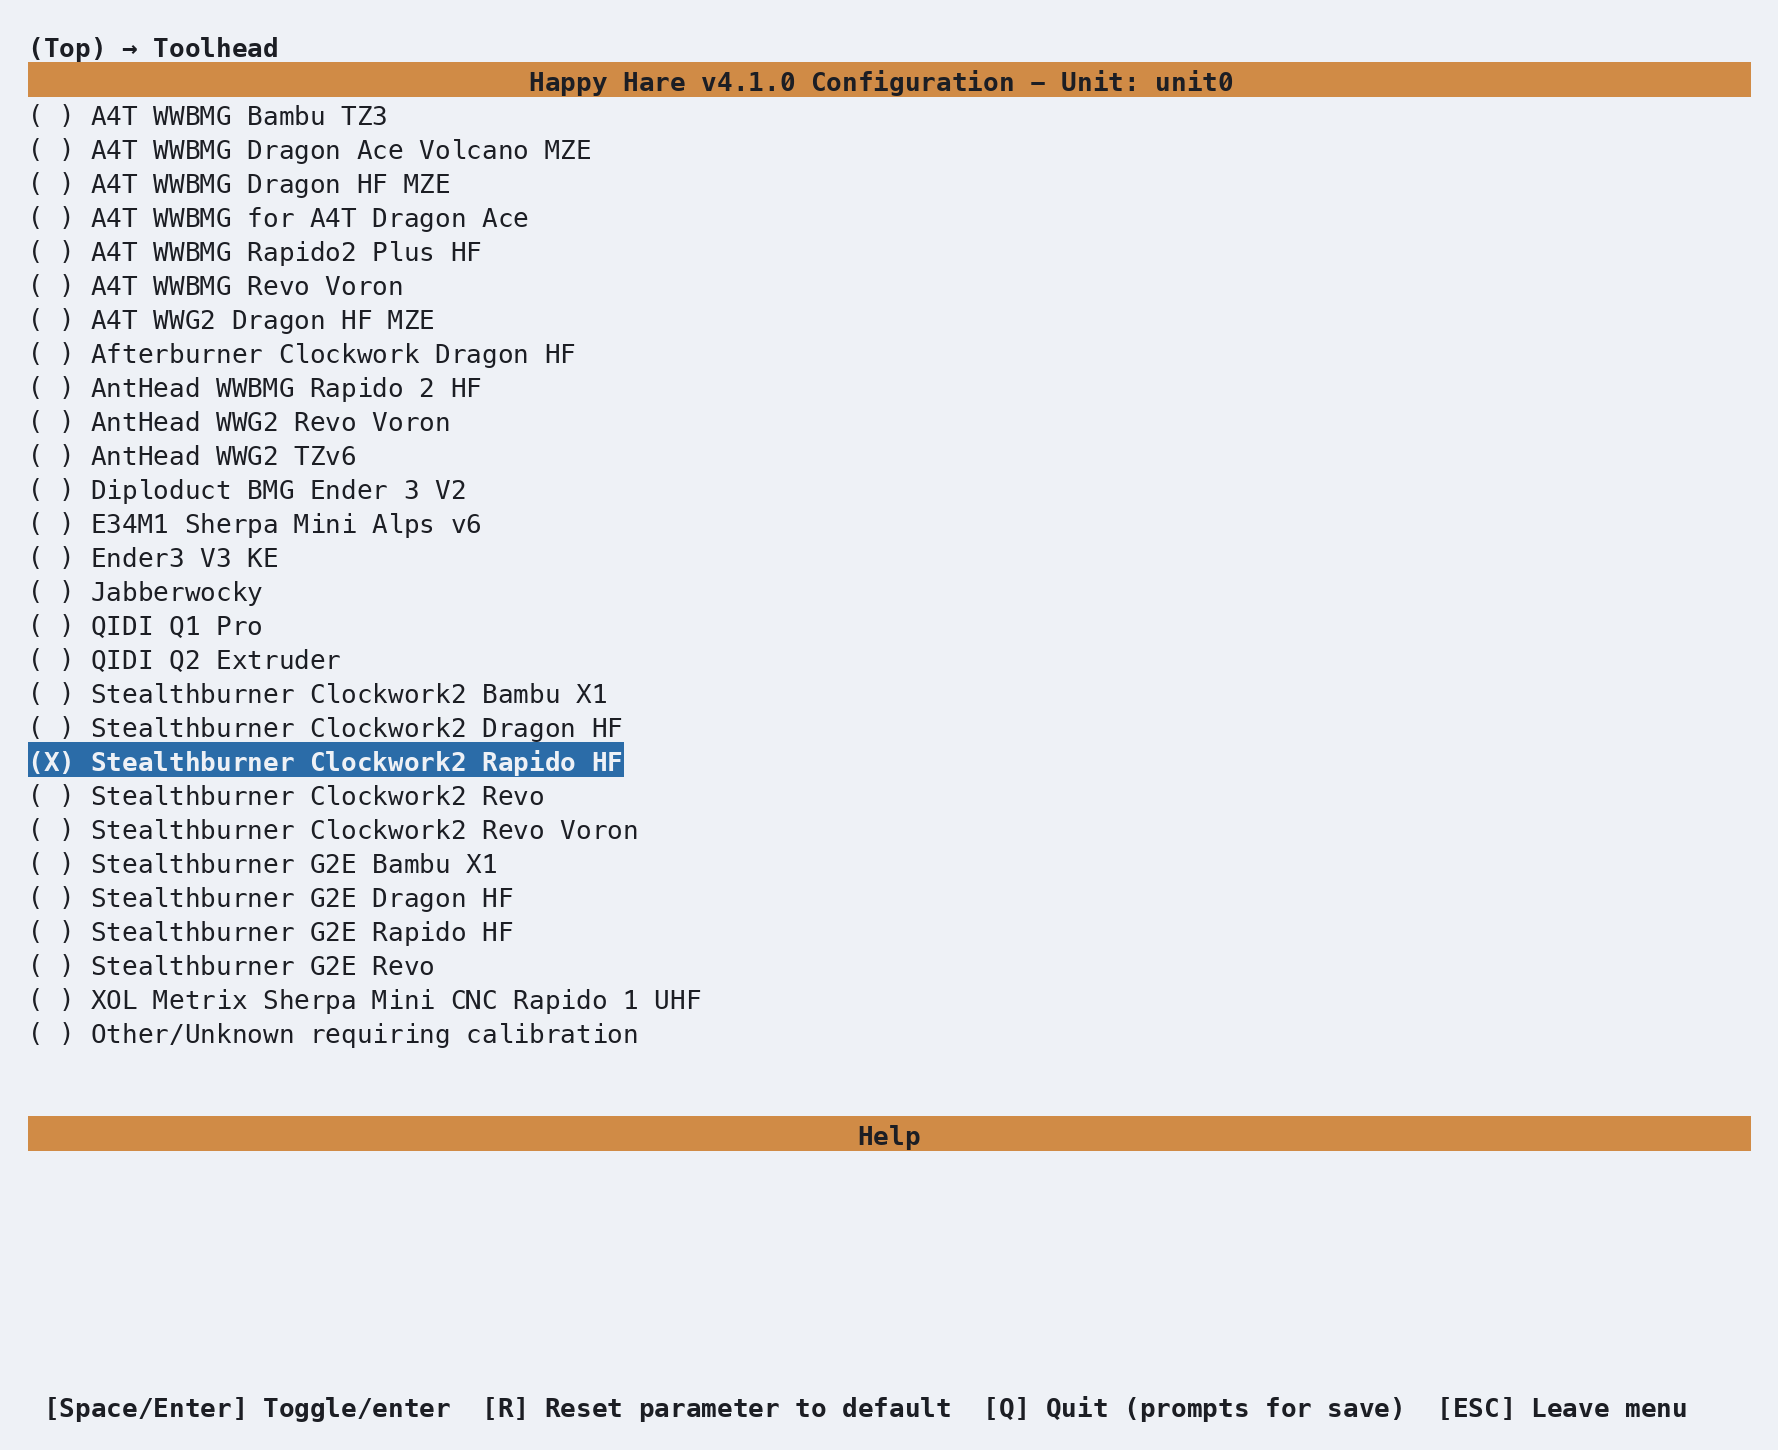
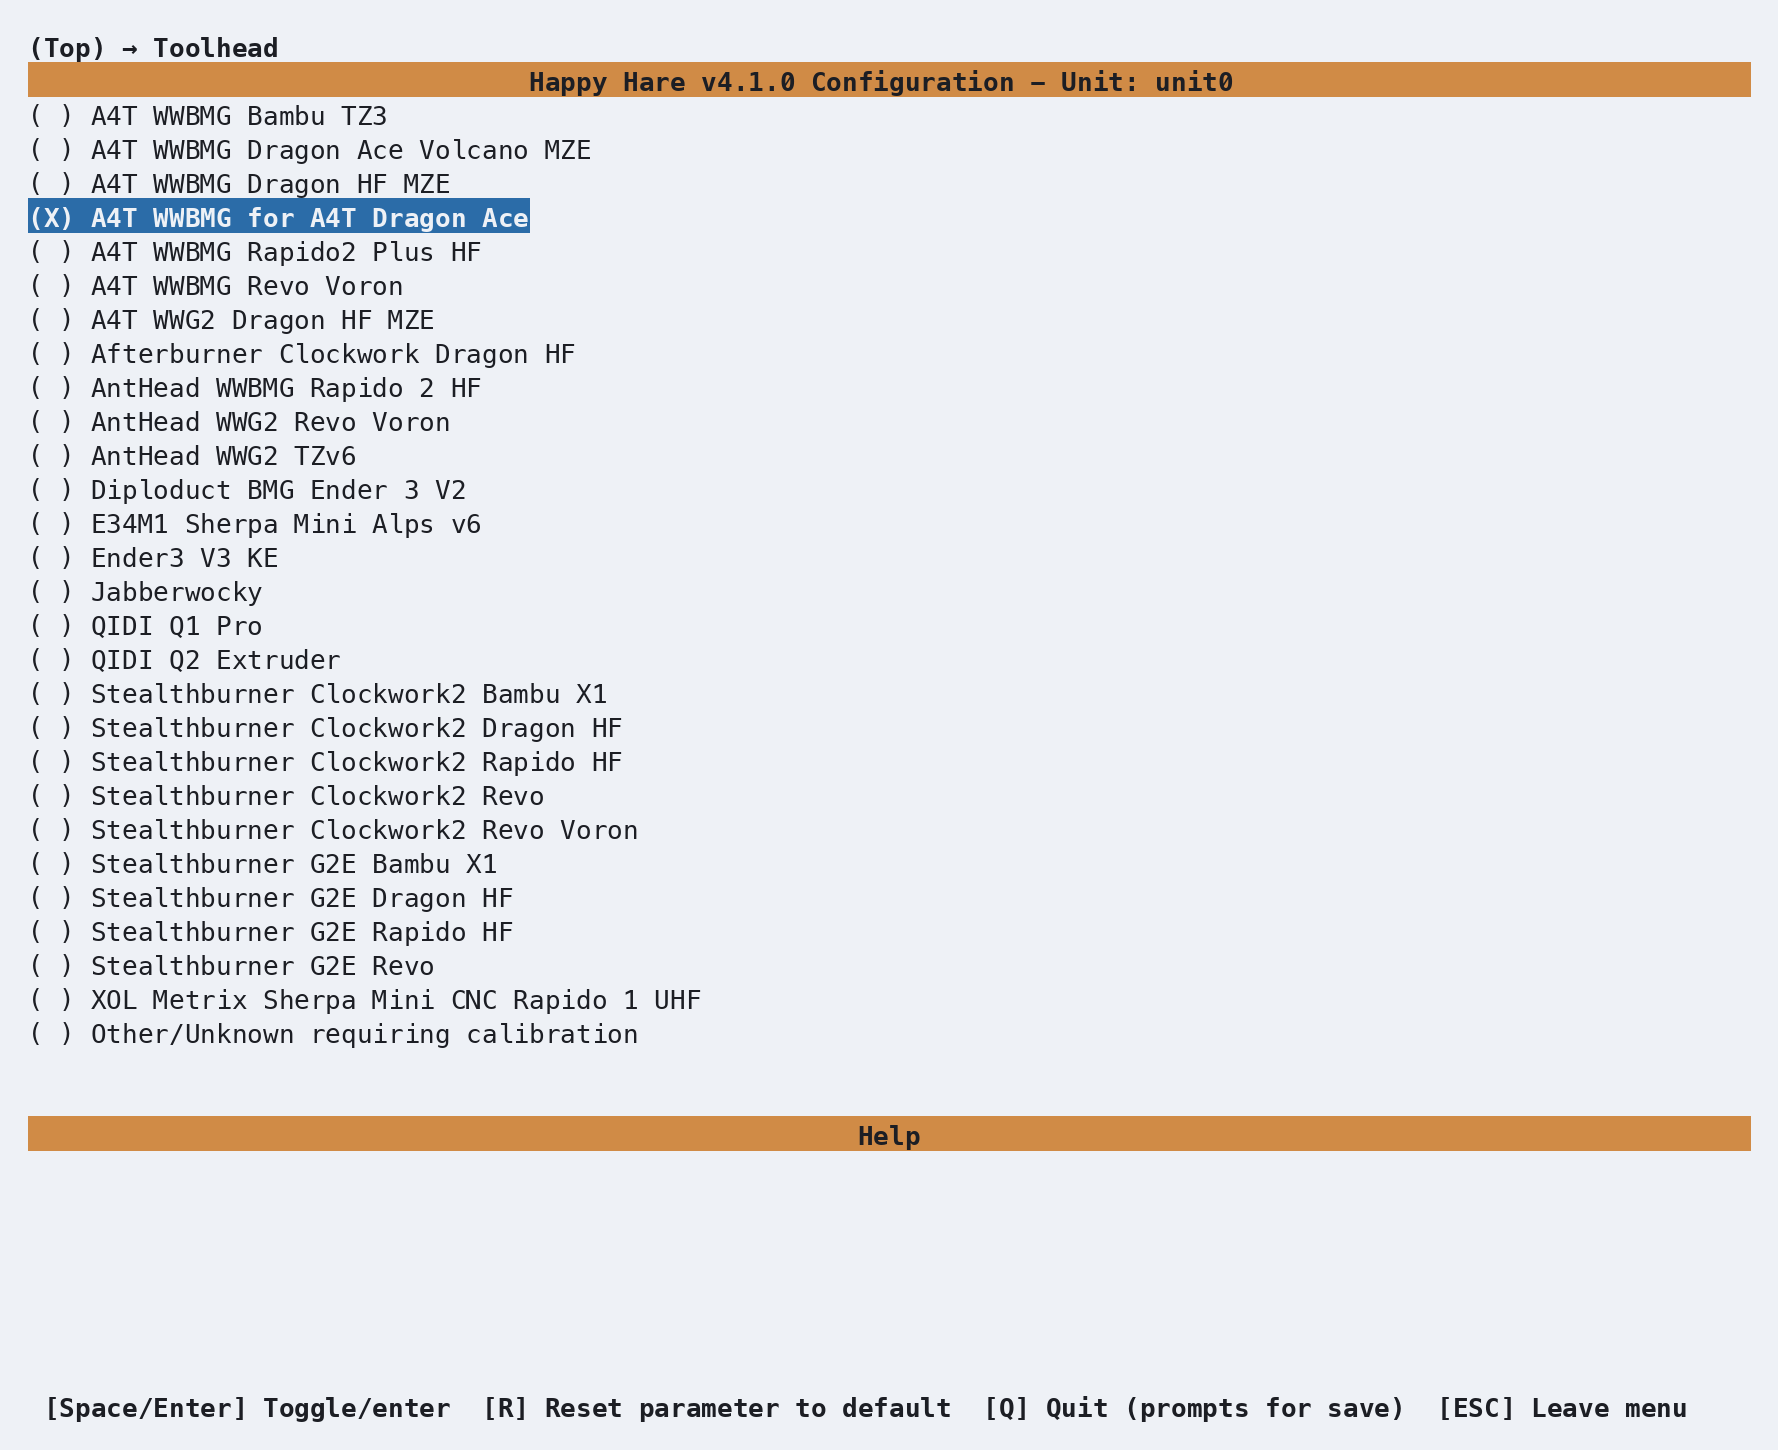
docs: preserve layered toolhead comparisons

Changed region(s): [[0.0, 0.4966, 0.3712, 0.5586], [0.0, 0.1241, 0.3093, 0.1862]]

diff --git a/doc_tools/shots.py b/doc_tools/shots.py
@@ -38,6 +38,7 @@
 from __future__ import annotations
 
 import argparse
+from copy import deepcopy
 import os
 import sys
 import traceback
@@ -420,7 +421,7 @@ def _getting_started_ercf_additions(mc, shot):
     mc.back()
     mc.back()
     mc.autofit()
-    _toolhead_screens(mc, shot, 'TOOLHEAD_TYPE_STEALTHBURNER_CLOCKWORK2_RAPIDO_HF',
+    _toolhead_screens(mc, shot, 'TOOLHEAD_TYPE_A4T_WWBMG_FOR_A4T_DRAGON_ACE',
                       '10-toolhead-selected', '10-toolhead-dimensions')
     mc.select(symbol('MMU_HAS_SENSOR_TOOLHEAD'))
     mc.toggle()
@@ -430,7 +431,6 @@ def _getting_started_ercf_additions(mc, shot):
     mc.autofit()
     mc.enter('Toolhead sensors/settings')
     shot('10-all-toolhead-dimensions')
-    shot('10-all-toolhead-dimensions-combined')
 
 
 def _getting_started_tradrack_additions(mc, shot):
@@ -445,7 +445,7 @@ def _getting_started_tradrack_additions(mc, shot):
 
 
 def _shared_toolhead_dimensions(mc, shot):
-    """Show the A4T dimensions before and after enabling toolhead sensors."""
+    """Show the A4T dimensions before enabling toolhead sensors."""
     mc.enter(symbol('CHOICE_TOOLHEAD_TYPE'))
     mc.select(symbol('TOOLHEAD_TYPE_A4T_WWBMG_FOR_A4T_DRAGON_ACE'))
     mc.toggle()
@@ -453,6 +453,18 @@ def _shared_toolhead_dimensions(mc, shot):
     mc.autofit()
     mc.enter('Toolhead sensors/settings')
     shot('toolhead-dimensions')
+
+
+def _toolhead_composite(mc, shot, toolhead, name):
+    """Overlay the enabled sensor section on the real disabled-sensor screen."""
+    mc.enter(symbol('CHOICE_TOOLHEAD_TYPE'))
+    mc.select(symbol(toolhead))
+    mc.toggle()
+    mc.back()
+    mc.autofit()
+    mc.enter('Toolhead sensors/settings')
+    mc.autofit()
+    before = deepcopy(mc.screen)
     mc.select(symbol('MMU_HAS_SENSOR_TOOLHEAD'))
     mc.toggle()
     mc.select(symbol('MMU_HAS_SENSOR_EXTRUDER'))
@@ -460,7 +472,19 @@ def _shared_toolhead_dimensions(mc, shot):
     mc.back()
     mc.autofit()
     mc.enter('Toolhead sensors/settings')
-    shot('toolhead-dimensions-combined')
+    mc.select(symbol('MMU_HAS_SENSOR_EXTRUDER'))
+    shot(name, before=before)
+
+
+def _ercf_toolhead_composite(mc, shot):
+    _toolhead_composite(mc, shot,
+                        'TOOLHEAD_TYPE_A4T_WWBMG_FOR_A4T_DRAGON_ACE',
+                        '10-all-toolhead-dimensions-combined')
+
+
+def _shared_toolhead_composite(mc, shot):
+    _toolhead_composite(mc, shot, 'TOOLHEAD_TYPE_A4T_WWBMG_FOR_A4T_DRAGON_ACE',
+                        'toolhead-dimensions-combined')
 
 
 def _installer_top(mc, shot):
@@ -987,8 +1011,23 @@ def _macro_purge(mc, shot):
 
 SESSIONS = [
     {
+        'name': 'getting-started-ercf-toolhead-composite',
+        'caption': 'ERCF toolhead dimensions with an enabled-sensor inset',
+        'scenes': _ercf_toolhead_composite,
+        'outdir': 'GettingStarted-ERCF',
+        'seed': 'ercf',
+        'cols': 140,
+    },
+    {
+        'name': 'getting-started-shared-toolhead-composite',
+        'caption': 'A4T toolhead dimensions with an enabled-sensor inset',
+        'scenes': _shared_toolhead_composite,
+        'outdir': 'GettingStarted-Shared',
+        'cols': 140,
+    },
+    {
         'name': 'getting-started-shared-toolhead',
-        'caption': 'A4T toolhead dimensions with and without optional sensors',
+        'caption': 'A4T toolhead dimensions before enabling optional sensors',
         'scenes': _shared_toolhead_dimensions,
         'outdir': 'GettingStarted-Shared',
     },
@@ -1280,13 +1319,16 @@ def run_session(session,
                     min_rows=min_rows or session.get('min_rows', MIN_ROWS),
                     **context) as mc:
 
-        def shot(name):
+        def shot(name, before=None):
             path = os.path.join(outdir, name + '.png')
             capture_path = os.path.join(staging, session['name'], name + '.png') if staging else path
             mc.shot(capture_path,
                     trim=session.get('trim', True),
                     scale=scale,
                     fit=session.get('fit', True))
+            if before is not None:
+                from .composite import render_toolhead_composite
+                render_toolhead_composite(before, mc.screen, capture_path, scale)
             if verbose:
                 mc.dump()
             print('    %-24s %2dx%-3d %s' %

diff --git a/doc_tools/test_shots.py b/doc_tools/test_shots.py
@@ -103,6 +103,63 @@ class NavigationTests(unittest.TestCase):
             self.assertTrue(completed(mc))
 
 
+class CompositeTests(unittest.TestCase):
+    def screen(self, enabled=False, columns=140):
+        import pyte
+        screen = pyte.Screen(columns, 30)
+        stream = pyte.Stream(screen)
+        lines = {
+            0: '(Top) Toolhead sensors/settings',
+            4: 'TOOLHEAD SENSORS',
+            5: '[*] Has toolhead sensor?' if enabled else '[ ] Has toolhead sensor?',
+            8: 'TOOLHEAD DIMENSIONS',
+            9: '> Extruder entrance to nozzle (88)',
+            12: '> Unload safety margin (40)',
+            21: 'Help',
+        }
+        if enabled:
+            lines[10] = '> Toolhead sensor to nozzle (76.5)'
+        for row, text in lines.items():
+            stream.feed(f'\x1b[{row + 1};1H{text}')
+        return screen
+
+    def test_composite_preserves_base_and_contains_exact_enabled_pixels(self):
+        from PIL import Image, ImageChops
+        from .composite import render_toolhead_composite, sensor_section
+        from .render import render, PAD, CELL_ASPECT, _fonts
+        before, after = self.screen(), self.screen(True)
+        with tempfile.TemporaryDirectory() as root:
+            p = Path(root)
+            render(before, p / 'before.png')
+            render(after, p / 'after.png')
+            render_toolhead_composite(before, after, p / 'combined.png')
+            base = Image.open(p / 'before.png')
+            enabled = Image.open(p / 'after.png')
+            combined = Image.open(p / 'combined.png')
+            self.assertEqual(base.size, combined.size)
+            self.assertIsNone(ImageChops.difference(base.crop((0, 0, 500, base.height)),
+                                                   combined.crop((0, 0, 500, base.height))).getbbox())
+            top, bottom, width = sensor_section(after)
+            pad, height = PAD * 2, int(26 * CELL_ASPECT)
+            right = pad + int((width + 1) * _fonts(26)[0].getlength('M'))
+            expected = enabled.crop((pad, pad + top * height, right, pad + bottom * height))
+            x, y = combined.width - pad - expected.width, pad + top * height
+            # Ignore the intentional border around the inset.
+            actual = combined.crop((x + 2, y + 2, x + expected.width - 2, y + expected.height - 2))
+            expected = expected.crop((2, 2, expected.width - 2, expected.height - 2))
+            self.assertIsNone(ImageChops.difference(actual, expected).getbbox())
+
+    def test_incomplete_or_overlapping_composite_is_rejected(self):
+        from .composite import render_toolhead_composite, sensor_section
+        with self.assertRaisesRegex(ScreenError, 'complete toolhead'):
+            sensor_section(SimpleNamespace(display=['TOOLHEAD SENSORS']))
+        with tempfile.TemporaryDirectory() as root:
+            output = Path(root) / 'bad.png'
+            with self.assertRaisesRegex(ScreenError, 'obscure'):
+                render_toolhead_composite(self.screen(columns=60), self.screen(True, columns=60), output)
+            self.assertFalse(output.exists())
+
+
 class PublicationTests(unittest.TestCase):
     def test_duplicate_destinations_are_rejected_before_writing(self):
         with tempfile.TemporaryDirectory() as root:

diff --git a/doc_tools/composite.py b/doc_tools/composite.py
@@ -1,0 +1,56 @@
+"""Reproducible toolhead illustrations built entirely from real terminal cells."""
+from io import BytesIO
+
+from PIL import Image, ImageDraw
+
+from .capture import ScreenError
+from .render import CELL_ASPECT, PAD, _fonts, render
+
+
+def sensor_section(screen):
+    """Find the complete sensor/dimension section, failing if its layout changes."""
+    lines = screen.display
+    starts = [i for i, line in enumerate(lines) if 'TOOLHEAD SENSORS' in line]
+    ends = [i for i, line in enumerate(lines) if 'Unload safety margin' in line]
+    if len(starts) != 1 or len(ends) != 1 or ends[0] <= starts[0]:
+        raise ScreenError('Cannot identify complete toolhead sensor/dimension section')
+    top, bottom = starts[0], ends[0] + 1
+    # Ignore decorative divider lengths when measuring actual text.
+    width = max(len(line.rstrip()) for line in lines[top:bottom]
+                if 'TOOLHEAD SENSORS' not in line and 'TOOLHEAD DIMENSIONS' not in line)
+    return top, bottom, width
+
+
+def render_toolhead_composite(before, after, path, scale=2):
+    """Keep the base screen intact; inset the enabled section in its blank right side."""
+    pad = PAD * scale
+    cell_w = _fonts(13 * scale)[0].getlength('M')
+    cell_h = int(13 * scale * CELL_ASPECT)
+    top, bottom, width = sensor_section(after)
+    old_top, old_bottom, old_width = sensor_section(before)
+    images = []
+    for screen in (before, after):
+        stream = BytesIO()
+        # render() normally infers PNG from the filename.
+        stream.name = 'capture.png'
+        render(screen, stream, scale=scale)
+        stream.seek(0)
+        images.append(Image.open(stream).convert('RGB'))
+    base, enabled = images
+    inset = enabled.crop((pad, pad + top * cell_h,
+                          pad + int((width + 1) * cell_w), pad + bottom * cell_h))
+    x = base.width - pad - inset.width
+    y = pad + old_top * cell_h
+    help_row = next((i for i, line in enumerate(before.display)
+                     if line.strip() == 'Help'), before.lines - 8)
+    if x < pad + (old_width + 2) * cell_w or y + inset.height >= pad + help_row * cell_h:
+        raise ScreenError('Toolhead inset would obscure base text or help; increase capture size')
+    draw = ImageDraw.Draw(base)
+    start = pad + int((old_width + 1) * cell_w)
+    draw.polygon([(start, y + cell_h), (x, y),
+                  (x, y + inset.height), (start, pad + old_bottom * cell_h)],
+                 fill='#e6c6a5')
+    base.paste(inset, (x, y))
+    draw.rectangle((x - scale, y - scale, x + inset.width, y + inset.height),
+                   outline='#bcbcbc', width=scale)
+    base.save(path)

diff --git a/doc/GettingStarted-ERCF.md b/doc/GettingStarted-ERCF.md
@@ -234,7 +234,7 @@ From the top menu, select **Toolhead**. This step is optional — if you skip it
 instead of generic estimates. Here we’ve chosen **`A4T WWBMG for A4T Dragon Ace`** to illustrate.
 
 <p align="center">
-  <img src="GettingStarted-ERCF/10-toolhead-selected.png" alt="Toolhead list, Stealthburner Clockwork2 Rapido HF selected" width="70%">
+  <img src="GettingStarted-ERCF/10-toolhead-selected.png" alt="Toolhead list, A4T WWBMG for A4T Dragon Ace selected" width="70%">
 </p>
 <br>
 
@@ -250,14 +250,10 @@ to add your parameters to future installer updates.
 The other two distances Happy Hare can use (**`Toolhead sensor to nozzle`** & **`Extruder sensor to entry`**) 
 only appear when you have enabled the sensors and remain hidden when disabled.
 
-<p align="center">
-  <img src="GettingStarted-ERCF/10-toolhead-dimensions.png" alt="Toolhead dimensions before enabling optional sensors" width="70%">
-</p>
-
-With both optional sensors enabled, the additional distances appear:
+The inset shows the additional distances that appear when both optional sensors are enabled.
 
 <p align="center">
-  <img src="GettingStarted-ERCF/10-all-toolhead-dimensions-combined.png" alt="Toolhead dimensions, pre-filled from the selected combo" width="70%">
+  <img src="GettingStarted-ERCF/10-all-toolhead-dimensions-combined.png" alt="Toolhead dimensions with sensors disabled, with an inset showing both sensors enabled" width="70%">
 </p>
 <br>
 

diff --git a/doc_tools/README.md b/doc_tools/README.md
@@ -166,8 +166,17 @@ installer menu and its **Name** submenu. The `getting-started-3ms-additions`,
 capture the complete walkthroughs, including board and MCU choices, pin editors,
 toolheads, and profile-specific settings. Their historical `-additions` names
 remain valid for `--only`. Include all profile sessions when shared menus change.
-The `getting-started-shared-toolhead` session captures A4T dimensions before and
-after enabling its optional sensors for the EMU and Tradrack guides.
+The `getting-started-shared-toolhead` session captures the plain A4T dimensions.
+The `getting-started-ercf-toolhead-composite` and
+`getting-started-shared-toolhead-composite` sessions preserve the layered
+before/after illustrations used by ERCF, EMU and Tradrack. They capture both
+sensor states at 140 columns, then place the enabled sensor/dimension section
+in a bordered inset over the blank right side of the disabled-sensor screen.
+`composite.py` finds section boundaries from the actual terminal text and
+rejects a layout that would hide base text or help. It copies rendered cells;
+it does not invent settings or values. Include these composite sessions when
+refreshing shared toolhead screens; a single full-screen capture loses the
+comparison.
 
 The grouped **MMU Features / Additions** screen is taller than the initial
 terminal. Screenshot sessions use `_additions(mc)` to fit it before walking

diff --git a/doc/GettingStarted-Tradrack.md b/doc/GettingStarted-Tradrack.md
@@ -186,14 +186,10 @@ to add your parameters to future installer updates.
 The other two distances Happy Hare can use (**`Toolhead sensor to nozzle`** & **`Extruder sensor to entry`**) 
 only appear when you have enabled the sensors and remain hidden when disabled.
 
-<p align="center">
-  <img src="GettingStarted-Shared/toolhead-dimensions.png" alt="Toolhead dimensions before enabling optional sensors" width="70%">
-</p>
-
-With both optional sensors enabled, the additional distances appear:
+The inset shows the additional distances that appear when both optional sensors are enabled.
 
 <p align="center">
-  <img src="GettingStarted-Shared/toolhead-dimensions-combined.png" alt="Toolhead dimensions, pre-filled from the selected combo" width="70%">
+  <img src="GettingStarted-Shared/toolhead-dimensions-combined.png" alt="Toolhead dimensions with sensors disabled, with an inset showing both sensors enabled" width="70%">
 </p>
 <br>
 

diff --git a/doc/GettingStarted-EMU.md b/doc/GettingStarted-EMU.md
@@ -234,14 +234,10 @@ gets you real, community-measured values instead of guesses, for free.
 
 Back out and enter **Toolhead sensors/settings** to see the effect:
 
-<p align="center">
-  <img src="GettingStarted-Shared/toolhead-dimensions.png" alt="Toolhead dimensions before enabling optional sensors" width="70%">
-</p>
-
-With both optional sensors enabled, the additional distances appear:
+The inset shows the additional distances that appear when both optional sensors are enabled.
 
 <p align="center"> <img src="GettingStarted-Shared/toolhead-dimensions-combined.png"
-  alt="Toolhead dimensions, pre-filled from the selected combo" width="70%">
+  alt="Toolhead dimensions with sensors disabled, with an inset showing both sensors enabled" width="70%">
 </p>
 
 **Extruder entrance to nozzle** and **Residual filament**, under **Toolhead
